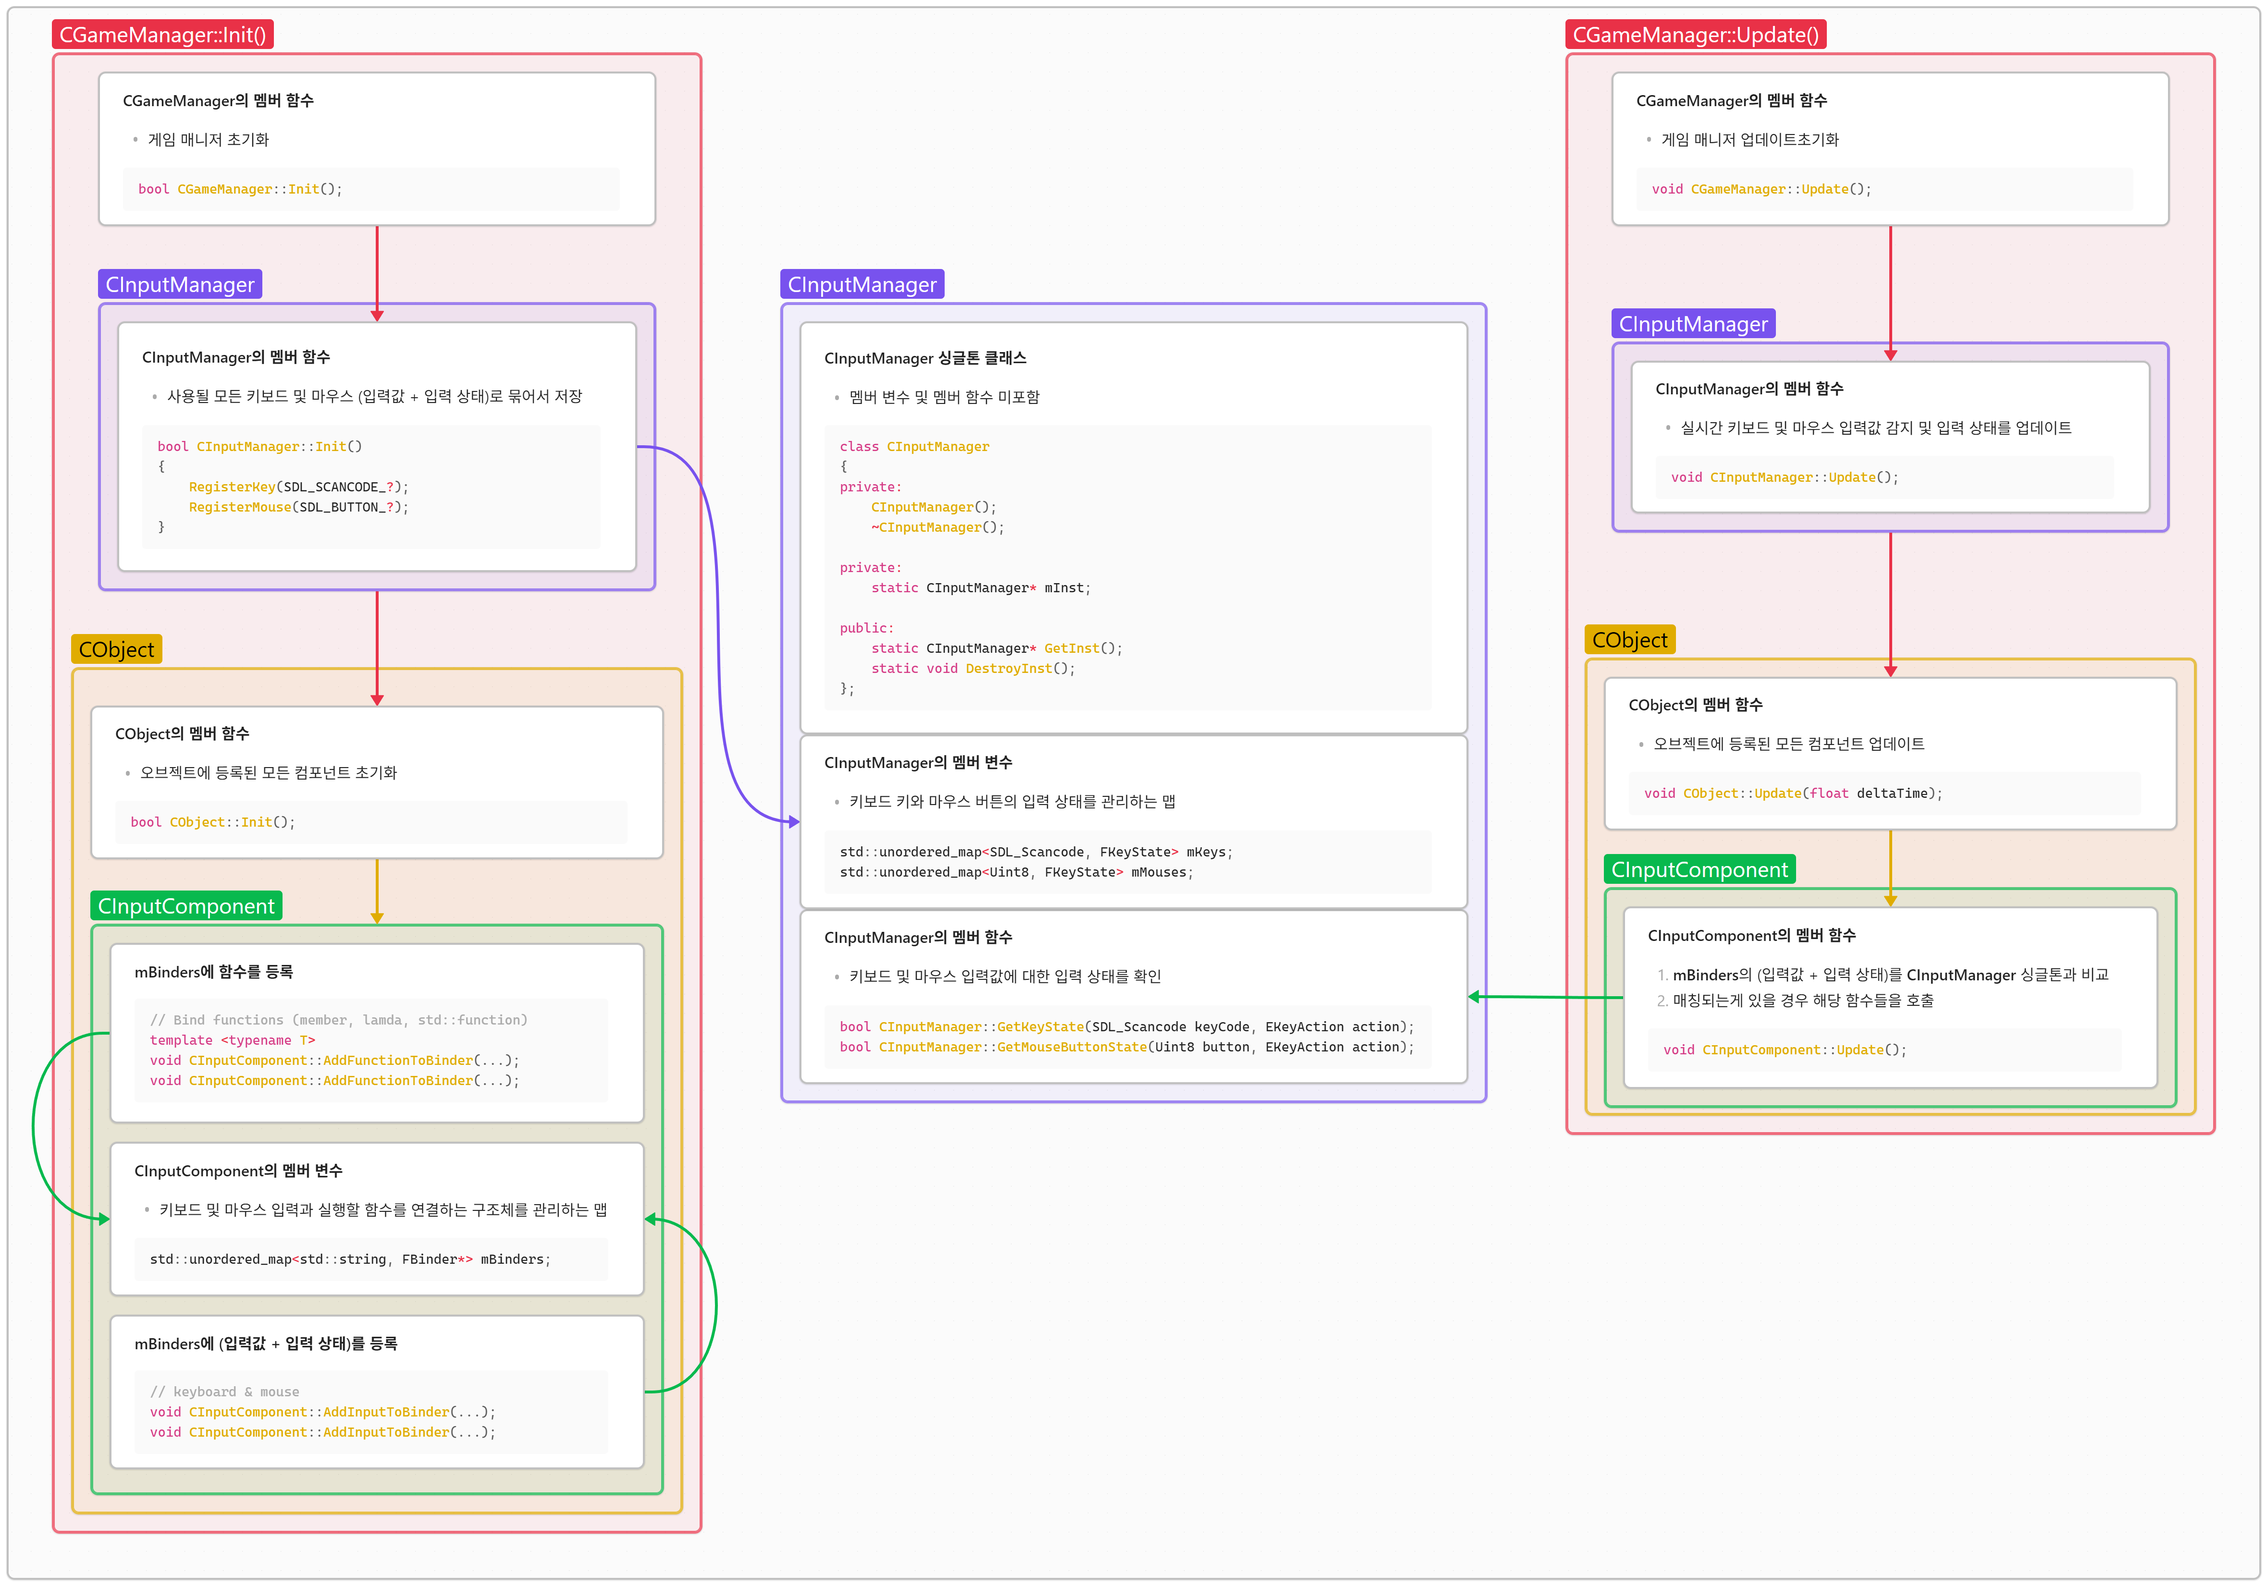
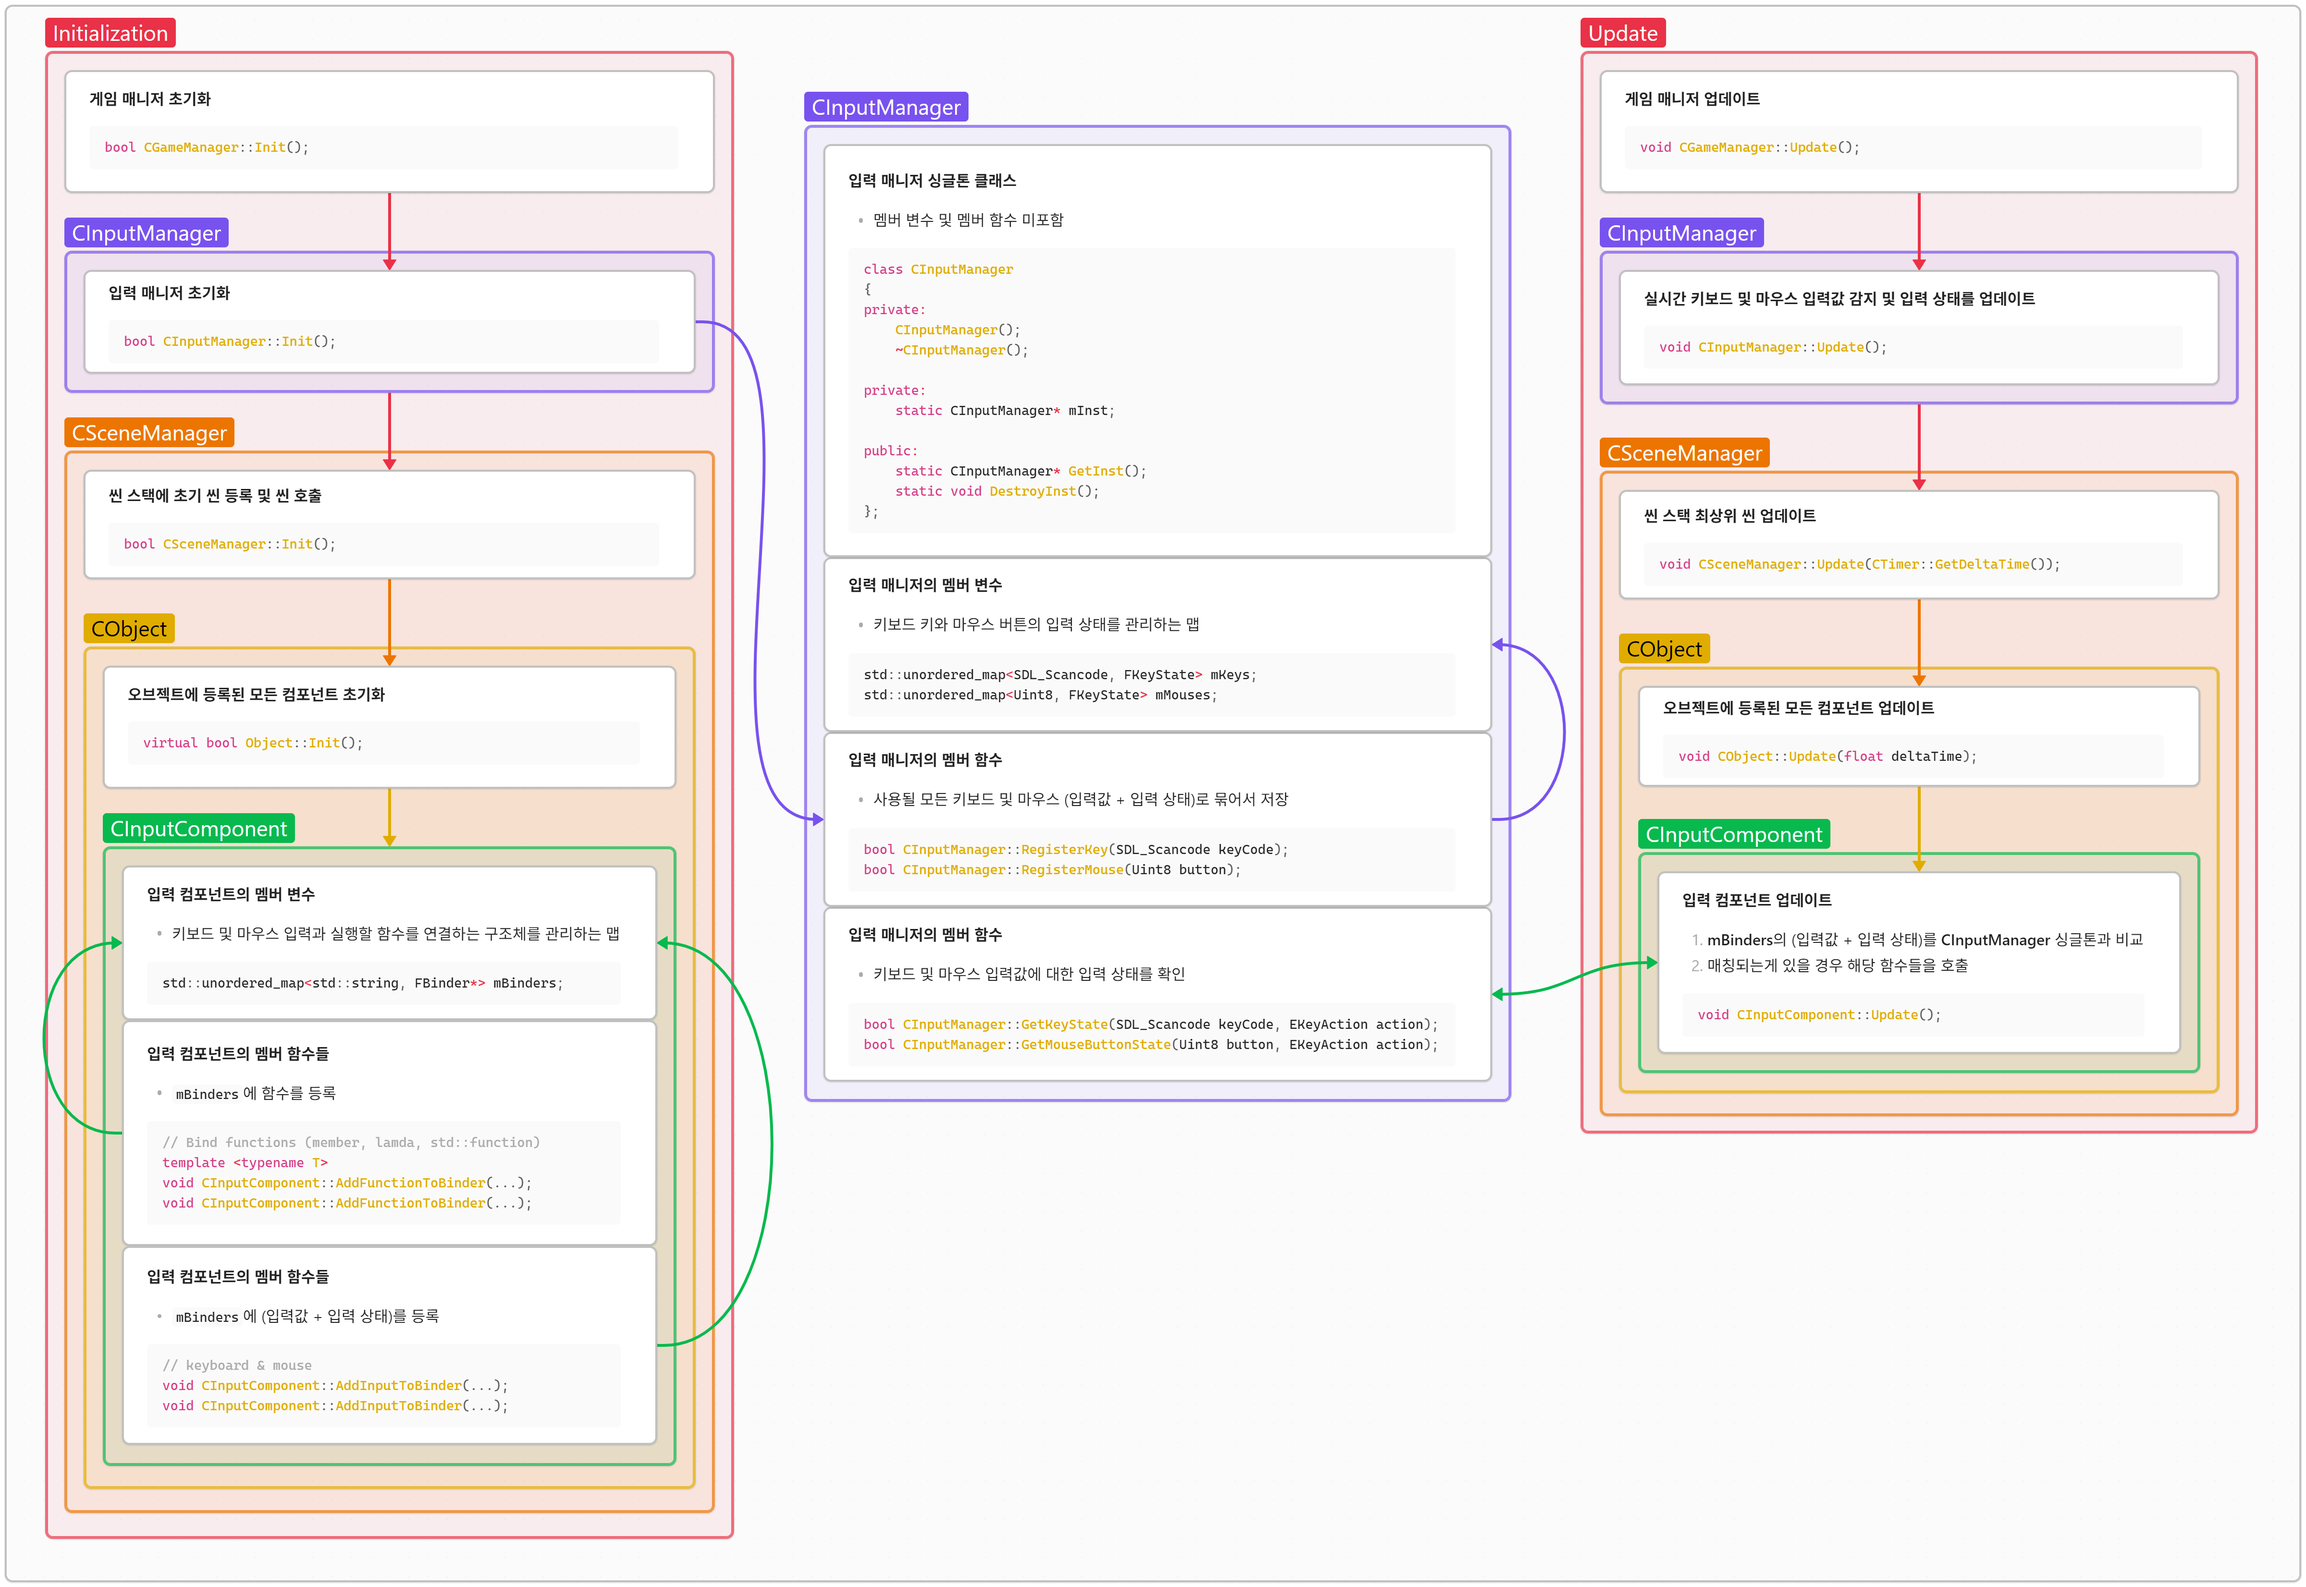
Updated Self-Made Game Framework note (Kor.ver)

diff --git a/content/Korean/02_게임 프로젝트/자작 게임 프레임워크/04_입력 처리 시스템 구조.md b/content/Korean/02_게임 프로젝트/자작 게임 프레임워크/04_입력 처리 시스템 구조.md
@@ -5,10 +5,11 @@
 
 > **이 시스템의 주요 장점**은 여러 콜백 함수에 대해 키보드와 마우스의 다양한 입력 조건(입력값 + 입력상태)을 조합해 처리할 수 있어, **입력 방식을 유연하게 설계하고 확장할 수 있다는 점**입니다.
 ---
-## 입력 시스템 작동 구조 | [[Input System Architecture Diagram_Kor.png|자세히 보기]]
+## **입력 시스템 작동 구조 | [[Input System Architecture Diagram_Kor.png|자세히 보기]]**
 ![[Input System Architecture Diagram_Kor.png]]
 
-**입력 매니저**(CInputManager)와 **입력 컴포넌트**(CInputComponent)의 동작을 간단한 흐름으로 보여주는 설계도입니다. `CGameManager::Init()`이 완료된 후 `CGameManager::Update()`가 실행됩니다.
+- 실행 순서: `Initialization` → `Update`
+- 본 설계도는 **입력 매니저**(CInputManager)와 **입력 컴포넌트**(CInputComponent) 두 클래스 간의 **연계성**을 간단히 보여줍니다.
 
 ---
 ## **InputUtils.h 구성 요소 및 설명**

diff --git a/content/Korean/02_게임 프로젝트/자작 게임 프레임워크/06_충돌 및 물리 시스템 구조.md b/content/Korean/02_게임 프로젝트/자작 게임 프레임워크/06_충돌 및 물리 시스템 구조.md
@@ -1,3 +1,17 @@
 # **충돌 및 물리 시스템 구조**
 ---
 ## **개요**
+내용
+
+---
+## **충돌 및 물리 시스템 흐름도**
+### **1. 초기화 흐름도 | [[Collision & Physics System Initialization Flowchart_Kor.png|자세히 보기]]**
+![[Collision & Physics System Initialization Flowchart_Kor.png]]
+본 흐름도는 충돌 및 물리 시스템의 초기화 과정을 간단히 보여줍니다.
+
+---
+### **2. 업데이트 흐름도 | [[Collision & Physics System Update Flowchart_Kor.png|자세히 보기]]**
+![[Collision & Physics System Update Flowchart_Kor.png]]
+본 흐름도는 충돌 및 물리 시스템의 업데이트 과정을 간단히 보여줍니다.
+
+---

diff --git a/content/Korean/02_게임 프로젝트/자작 게임 프레임워크/index.md b/content/Korean/02_게임 프로젝트/자작 게임 프레임워크/index.md
@@ -50,7 +50,7 @@ draft: false
 	- 연관된 컴포넌트: `CInputComponent`
 5. **[[05_오브젝트 시각 구성 및 애니메이션 구조|오브젝트 시각 구성 및 애니메이션 구조]]**
 	- 연관된 컴포넌트: `CSpriteComponent`, `CVFXComponent`
-6. **충돌 및 물리 시스템 구조** (문서 작성중)
+6. **[[06_충돌 및 물리 시스템 구조|충돌 및 물리 시스템 구조]]** (문서 작성중)
 	- 연관된 컴포넌트: `CBoxCollider`, `CCircleCollider`, `CRigidbody`
 7. **위젯 시스템의 설계와 동작 구조** (문서 작성 예정)
 	- **[[07_2_기본 제공 위젯 구성|기본 제공 위젯 구성]]**
